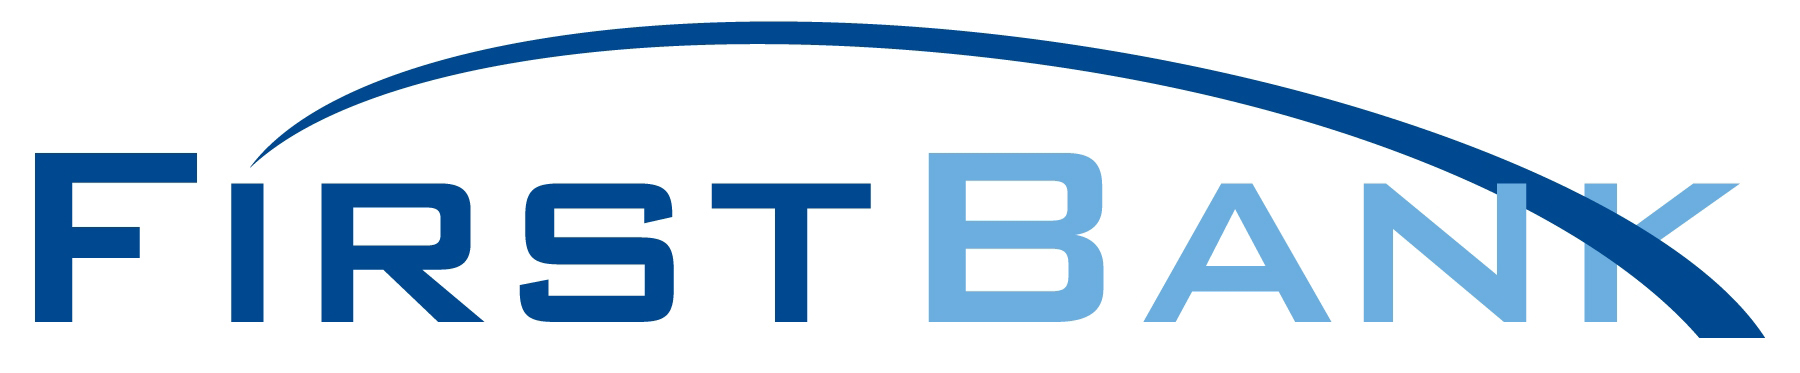
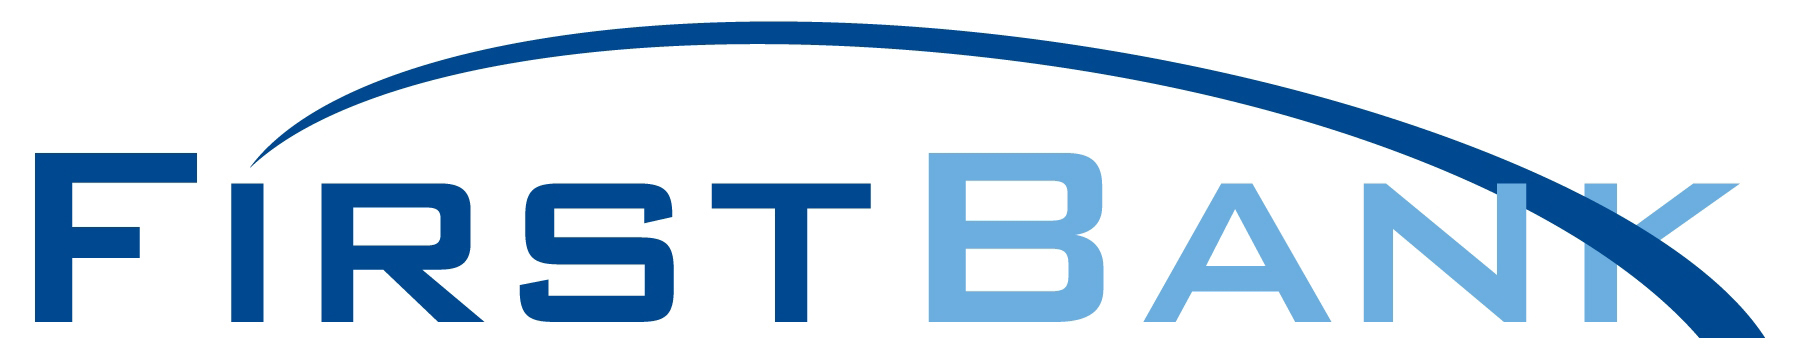
continue production
update styles and continue to hook variables to display

diff --git a/travel_roi.html b/travel_roi.html
@@ -9,9 +9,12 @@
 $(function() {
 // 12/05/16 production design    2 hours
 // 12/06/16 production design    3 hours
+// 12/07/16 production design    2.5 hrs
+// 12/08/16 prodcution design    1.5 hrs
+	
 
 	
-	var rsms=[['Shayne Boelter','shayne.boelter@brother.com'],['',''],['',''],['',''],['','']];
+	var rsms=[['Shayne Boelter','shayne.boelter@brother.com'],['Barbara Hill','barbara.hill@brother.com'],['Doug','doug.carter@brother.com'],['Gary Sibley','gary.sobley@brother.com'],['Laura Bergamini','laura.bergamini@brother.com'],['Leo Perez','leo.perez@brother.com']];
 	var industry="regional bank";
 	var clientName="First Bank";
 	$('.indus').text(industry);
@@ -25,6 +28,10 @@ $(function() {
  if(frequency == 0){
 	$(".annual").hide();
  }
+	
+	$("#run").click(function() {
+  $("#controls").hide("slow");
+});
 
 });
 
@@ -43,7 +50,6 @@ $(function() {
 		
 		.boxlet{width:118px;
 		background-color:darkgray;
-		height:100px;
 		float:left;
 		margin-right:5px;
 		margin-left:5px;
@@ -58,8 +64,7 @@ $(function() {
 		.broLogo{float:right;
 		padding-right:160px;}
 		
-		#clientLogo{min-height:100px;
-		//background-color: lightgray;
+		#clientLogo{min-height:50px;
 			margin-left:60px;
 			margin-right:60px;
 			text-align:center;}
@@ -75,23 +80,24 @@ $(function() {
 			margin-right:auto;
 			min-height: 800px;
 			max-width:900px;
-		border: thin red solid;}
+		//border: thin red solid;}
 		
 		.desc{
 			padding-left:15px;
 			padding-right:15px;
 			text-align:center;
-			font-size:18px;
+			font-size:14px;
 			margin-bottom:10px;
 			margin-top:40px;}
-		
+		#destination{color:black;
+		font-weight: 600;}
 		.disclaimer{
 			display:block; 
 			width:100%;
-			min-height:25px;
+			//min-height:25px;
 			//border: thin red solid;
-			font-size:11px;
-		margin-top:10px;}
+			font-size:10px;
+		margin-top:5px;}
 		
 		.discText{width:500px;
 		float:left;}
@@ -102,9 +108,9 @@ $(function() {
 		text-align:center;
 		min-height:35px;
 			padding-bottom:5px;
-		font-size: 16px;}
+		font-size: 14px;}
 		
-		h4{font-size:24pt;
+		h4{font-size:20pt;
 		margin-top:-10px;}
 		.leftSide{float:left;
 		width:450px;
@@ -120,10 +126,14 @@ $(function() {
 		border: thin gray solid;
 		background-color:lightgray;}
 		
+		#meetHead{text-align:center;
+		margin-bottom:5px;}
+		
+		
 		.rightSide{float:right;
 		width:440px;
 		//border: thin red solid;
-		min-height:500px;
+		//min-height:500px;
 		}
 		
 		.rt{font-size:9pt;
@@ -132,6 +142,16 @@ $(function() {
 			line-height:1;
 			display:inline-block;
 		}
+		#run{width:100px;
+		color:white;
+		background-color:lightgrey;
+			text-align:center;
+		display:inline-block;
+		border-radius: 5px;
+		float:right;
+		cursor:pointer;}
+		
+		.shortName{font-size: 10pt;}
 		
 		.subTotal{font-weight:800;
 		}
@@ -145,8 +165,8 @@ $(function() {
     text-align: left;}
 		
 		.title{float:left;
-		width:650px;
-		font-size: 40px;
+		width:450px;
+		font-size: 30px;
 		text-align: right;}
 		
 		.titleBox{
@@ -224,19 +244,21 @@ label{
      	<option value="Shane">Shane</option>
 	</select>
 </div>
-       </div><div class="clearBoth"></div> </div>
+       </div>
+       <span id="run">RUN</span>
+       <div class="clearBoth"></div> </div>
 	<div class="titleBox">
-	<div class="logo"><img src="OmniJoin_meet_smarter_R-01.png" width="100%" alt="oj logo"/></div>
+	<div class="logo"><img src="OmniJoin_meet_smarter_R-01.png" width="60%" alt="oj logo"/></div>
 	<div class="title">Travel ROI Calculator</div>
 	<div class="clearBoth"></div>
 	
 	</div>
-	<div class="rightSide"><div class="desc"><strong><span class="client"></span></strong> is a <span class="indus"></span> with 4 branches in New Jersey. The bank has monthly branch manager meetings at the
+	<div class="rightSide"><div class="desc"><strong><span class="client"></span></strong> is a <span class="indus"></span> with <span id="officeNum">000</span> offices in New Jersey. The bank has monthly branch manager meetings at the
 corporate office. All branches are within 45 minutes of the corporate office in  Bridgewater, NJ</div>
 <div class="map" id="map"></div>
 <div class="contact desc"><p><span class="indus"></span>s are utilizing<br/>OmniJoin Private Cloud to host secure meetings<br/>that can save time and money.</p><p>Contact your OmniJoin representative<br><strong><span id="rsmName"></span></strong><br/><span id="rsmEmail"></span><br/> for more information.</p></div></div>
-	<div class="leftSide"><div id="clientLogo"><img src="FirstBank.JPG" width="100%"/></div>
-	<div id="details"><div class="detailHead">Time, distance and cost of travel from origin points to <span id="destination"></span> (round trip)</div>
+	<div class="leftSide"><div id="clientLogo"><img src="FirstBank.JPG" width="80%"/></div>
+	<div id="details"><div class="detailHead">Time, distance and cost of travel from origin points to<br/><span id="destination"></span> (round trip)</div>
 	<div class="attendee"><table id="table1"><tbody><tr>
 	  <th style="white-space: nowrap;">Attendee Location</th>
 	  <th>Time<br>
@@ -250,25 +272,24 @@ corporate office. All branches are within 45 minutes of the corporate office in 
 	
 
 	</tbody></table></div>
-	<div class="totals">
-  		<span class="totalHead">TOTALS FOR THIS MEETING</span>
-	  		<div class="boxlet"><p>Time wasted in transit</p>
-			<h4> <span class="totTim"></span> min.</h4>
+	<div class="totals"><div id="meetHead">TOTALS FOR A MEETING ON [DATE] WITH [4] ATTENDEES</div>
+	  <div class="boxlet"><p>Time wasted in transit</p>
+			<h4> <span class="totTim"></span><span class="shortName"> Min.</span></h4>
 			</div>
 			<div class="boxlet">
 	  		<p>Distance<br/>Travelled</p>
-				<h4><span id="rt_distance">def</span> mi.</h4>
+				<h4><span id="rt_distance">def</span><span class="shortName"> mi.</span></h4>
 			</div>
 			<div class="boxlet"><p>*Cost<br/>incurred</p>
-	  		<h4><sup>$</sup><span id="driveCost"></span><sup></sup></h4>
+	  		<h4><span class="shortName"><sup>$</sup></span><span id="driveCost"></span><sup></sup></h4>
 			</div><div class="clearBoth"></div></div>
 		<div class="annual"><div class="totalHead">ANNUAL TOTALS <span>(12 meetings)</span></div>
 	<div class="boxlet annual"><p>Time wasted in transit</p>
-		<h4><span class="totTim2"></span> hrs.</h4>
+		<h4><span class="totTim2"></span> <span class="shortName">hrs.</span></h4>
 	</div>
 	<div class="boxlet annual">
 	  <p>Distance<br/>Travelled</p>
-		<h4><span class="miTotal">abc</span> mi.</h4>
+		<h4><span class="miTotal">abc</span><span class = "shortName">mi.</span></h4>
 	</div>
 	<div class="boxlet annual"><p>*Cost<br/>incurred</p>
 	  <h4><sup>$</sup><span id="annualCost"></span><sup></sup></h4>
@@ -292,7 +313,7 @@ corporate office. All branches are within 45 minutes of the corporate office in 
         var origin1 = 'piscataway, nj';
         var origin2 = 'denville, nj';
 		var origin3 = 'dunellen, nj';
-        var destinationA = '200 Crossing Blvd,Bridgewater, NJ';
+        var destinationA = '200 Crossing Blvd, Bridgewater, NJ';
         //var destinationB = 'Bridgewater, NJ';
 		var mileMultiplier = 0.54;
 		  var cost;
